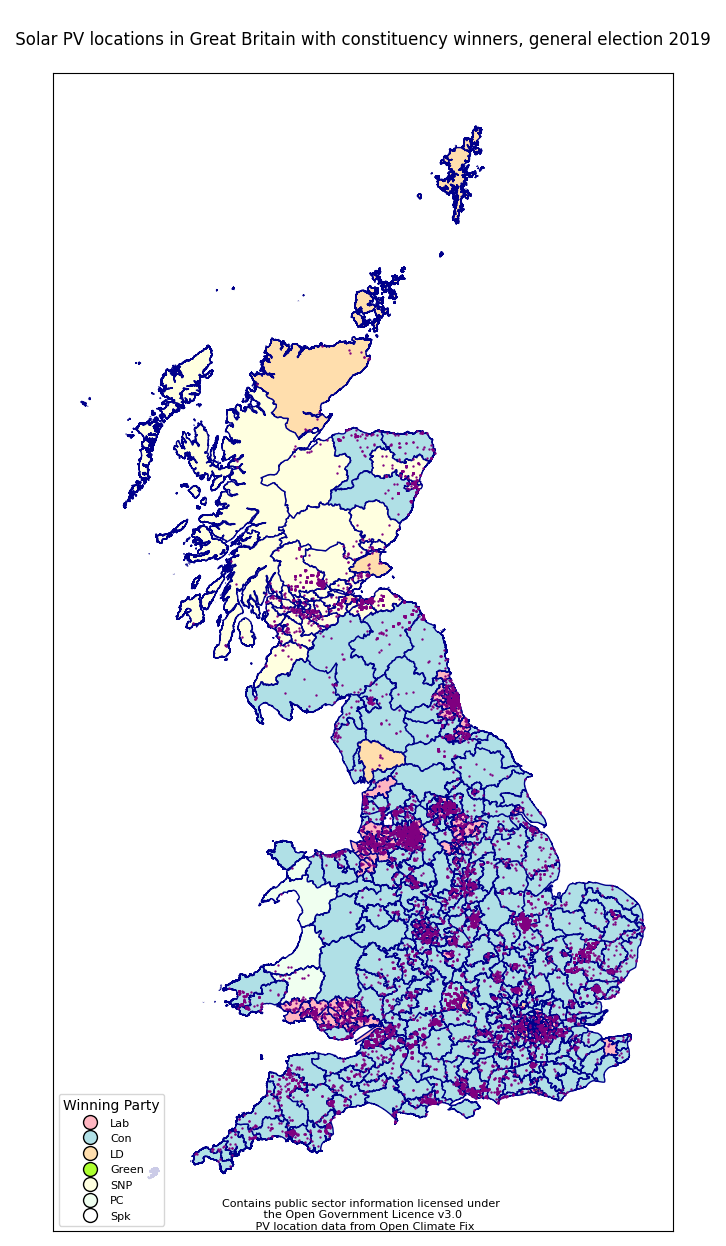
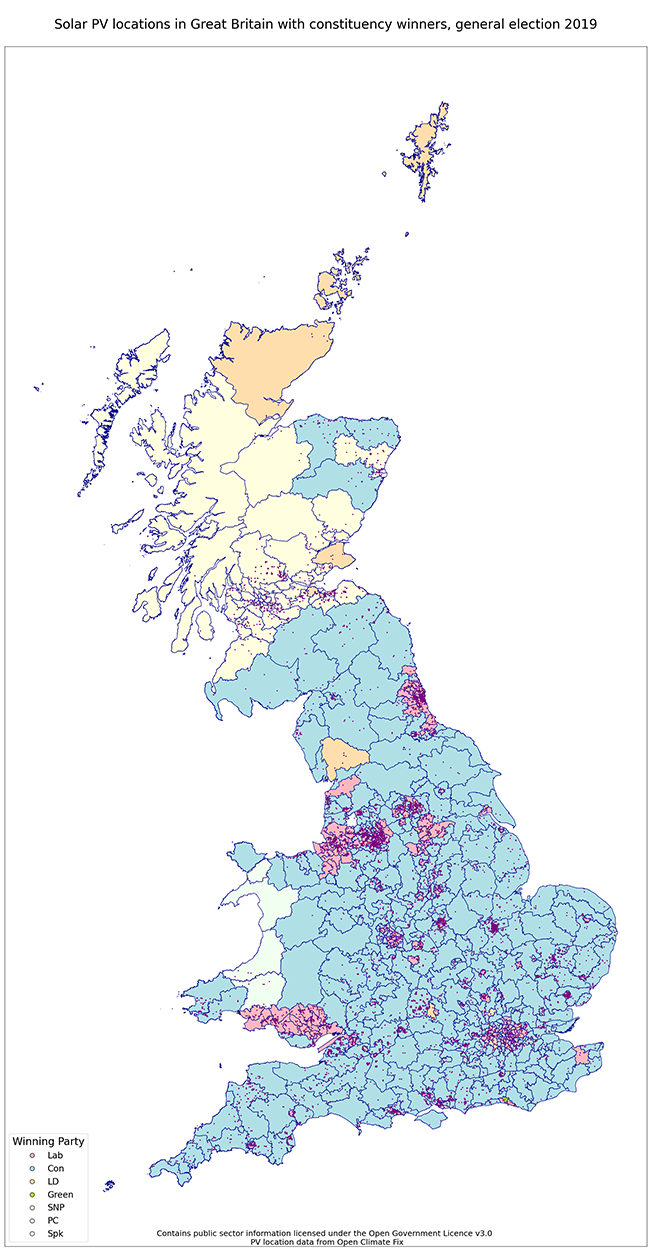
Better map

diff --git a/content/posts/PV_constituency.md b/content/posts/PV_constituency.md
@@ -8,17 +8,17 @@ draft: false
 
 The good folks at Open Climate Fix, with their open data and code policy, have made a dataset of precise solar PV locations available which I have mapped against electoral constituencies in Great Britain. It’s a relatively small sample size of 24,000 (compared to the 1m+ locations that exist) but still shows a representative spread with the expected urban concentrations and includes some surprising, at least to me, hotspots, eg Peterborough, Leicester and Colchester.
 
-![targets](/img/pv_map_small.png)
+![Map of PV installations in GB](/img/pv_map_small.png)
 
 Maybe they are due to local council initiatives – Peterborough had a free solar scheme in 2015 and both Leicestershire and Essex county councils have been running solar group buying schemes – or else down to supercharged reporting of PV installations on the ground in these areas.
 
 To look in detail at PV locations by constituency winners at the 2019 general election, the UK government figures from BEIS have comprehensive data on all PV installations, which total 1.12m in the UK as of February 2023. This shows urban concentrations of PV sites in Labour seats are completely outweighed by the dispersed spread in Conservative more rural areas – 22.5% and 69% of the UK total respectively – with SNP constituencies taking 6%. 
 
-![targets](/img/percent_pv_party.png)
+![Bar graph of PV installations by winning constituencies](/img/percent_pv_party.png)
 
 Even taking into account population and looking at the number of PV installations per capita, pro-solar policies would benefit Conservative constituents more than any other party bar Plaid Cymru, with the Conservative figure 1.8 times the Labour number. (Assuming that numbers of PV systems already installed are an indicator of future interest.)
 
-![targets](/img/pv_per_capita_700.png)
+![Number of PV installations per million population in winning constituencies](/img/pv_per_capita_700.png)
 
 Add to this that 57% of voters who owned their own home outright voted Conservative, as did 43% with mortgages (home ownership presumably being a near prerequisite for installing solar panels). Also 58% of people intending to vote Conservative at the next election want to see more renewables deployed to bring down bills and 46% of voters say they would be less likely to vote for a party that pledged to get rid of the Net Zero target.
 
